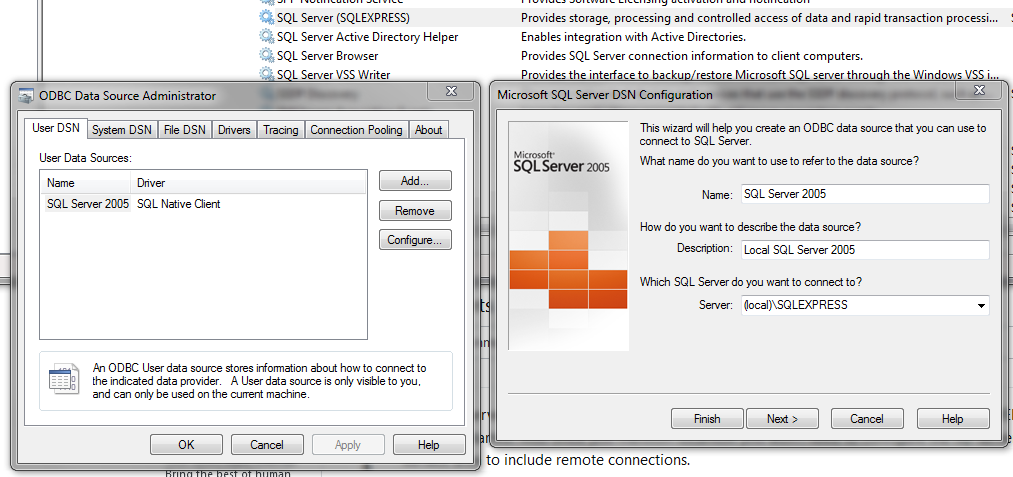
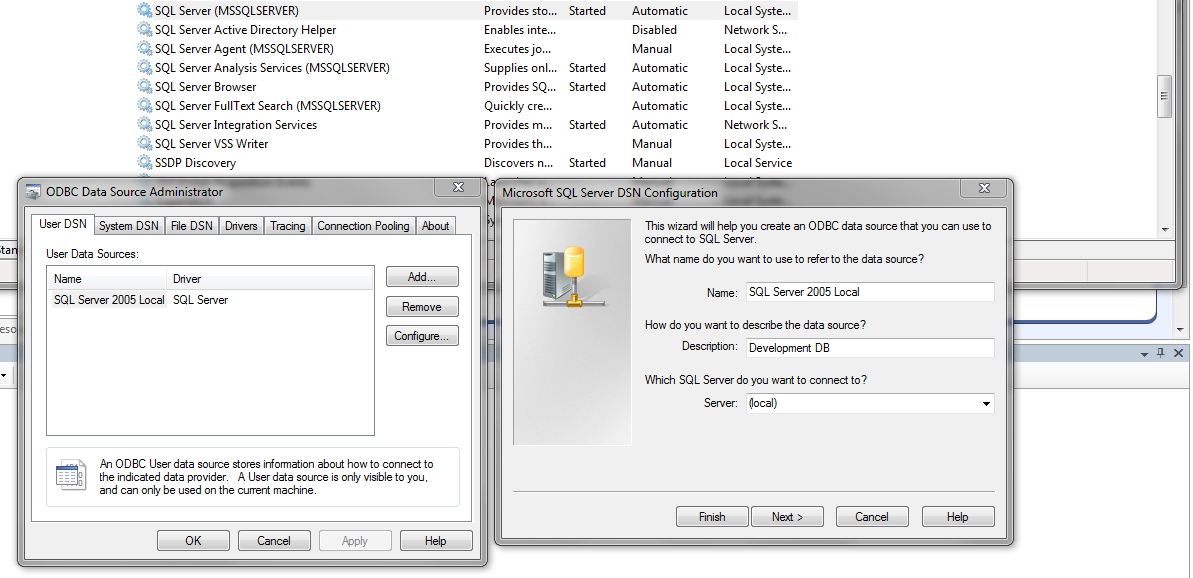
updated MFC database applications

diff --git a/ProgrammingC++/4_MFCDatabaseApplications.md b/ProgrammingC++/4_MFCDatabaseApplications.md
@@ -8,6 +8,8 @@ parent: Programming in C++
 
 This article demonstrates the main aspects involved to building Windows database applications with MVS using MFC (Microsoft Foundation Classes).
 
+Note: to ensure access to all of Microsoft SQL Server 2005's functionality, it may be necessary to uninstall SQL Server 2005 installed with MVS 2005, and then install SQL Server 2005 (e.g. Developer edition) from scratch.
+
 ## SQL Server 2005
 
 Given the time at which SQL Sever 2005 was applied for MVS 2005, there are a few differences compared to more modern implementations of SQL. All SQL queries discussed here return `recordsets`.
@@ -58,8 +60,39 @@ MFC supports ODBC primarily through the following classes:
 
 ## Registering an ODBC database
 
-From the Windows Control Panel or Administrative Tools is the _Data source (ODBC)_ option. With SQL Server 2005 already installed, one can set up a local database as shown:
+Before accessing an ODBC database, one must register such a database from Windows. From the Control Panel or Administrative Tools is the _Data source (ODBC)_ option. 
+
+### SQL Server 2005
+
+With SQL Server 2005 already installed, one can set up a local database as shown:
 
 ![](./MSVC2005/sql_sever_setup.PNG)
 
-Note that the server name was updated to _(local)\SQLEXPRESS_ to match that of the default SQL Server service as shown.
+### Microsoft Access
+
+This requires a Microsoft Access Driver (*.mdb) file. If Microsoft Access is not already installed then download the Microsoft Access Database runtimes (2016 supports Windows 7).
+
+Open the _Data source (ODBC)_ option from the Windows Control Panel, then locate the MDB file to register the database.
+
+![](./MSVC2005/ms_access_driver.PNG)
+
+## Starting a new MVS project
+
+Create a new MFC application via the wizard, choosing the SDI interface. Eventually when prompted, select _Database view without file support_ and select _ODBC_ as the client type:
+
+![](./MSVC2005/new_database_mfc_mdb.PNG)
+
+Click _Datasource_ and set up a new data source (*.dsn). When prompted from the _ODBC Microsoft Access Setup_ dialog, select the MDB file (again) by clicking _Select_ (see the [repo](https://github.com/jfspps/VisualStudio2005Learning) for a copy of the Northwind.mdb file).
+
+Then pick one or more database tables or views (hold CTRL and click):
+
+![](./MSVC2005/northwind_view.PNG)
+
+The previous wizard dialog box gives the option of database support type:
+
++ __Dyanset__ - recordset is saved to memory and updated whenever _moving_ (i.e. not automatic if not) from one record to another. This ensures changes to the data (from the current user or other users) is made known.
++ __Snapshot__ - recordset is saved to memory. Updates applied to the database by other users are not known since the update does not refresh the recordset in memory.
+
+We select snapshot for the demo. Update the generated class names if desired (we chose the Product table from the MDB file so updated the record view class as shown):
+
+![](./MSVC2005/new_database_mfc_mdb_classes.PNG)
